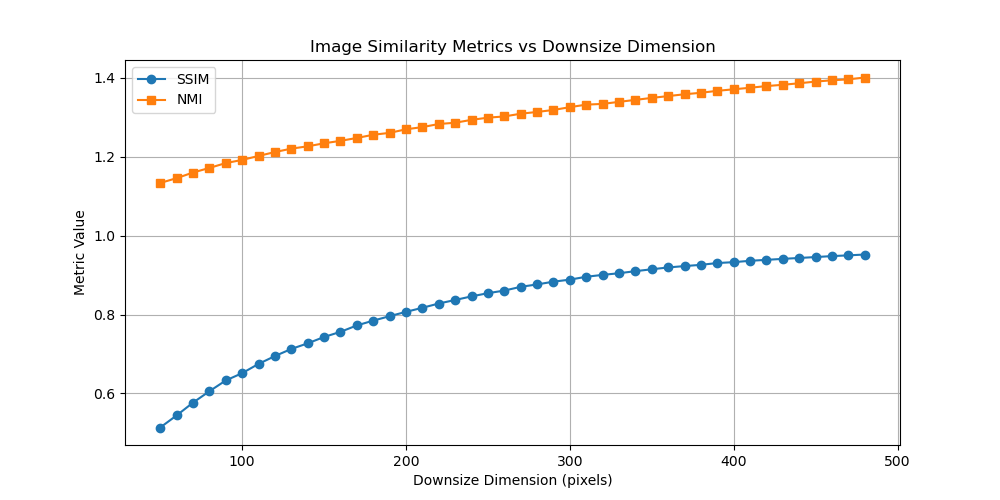
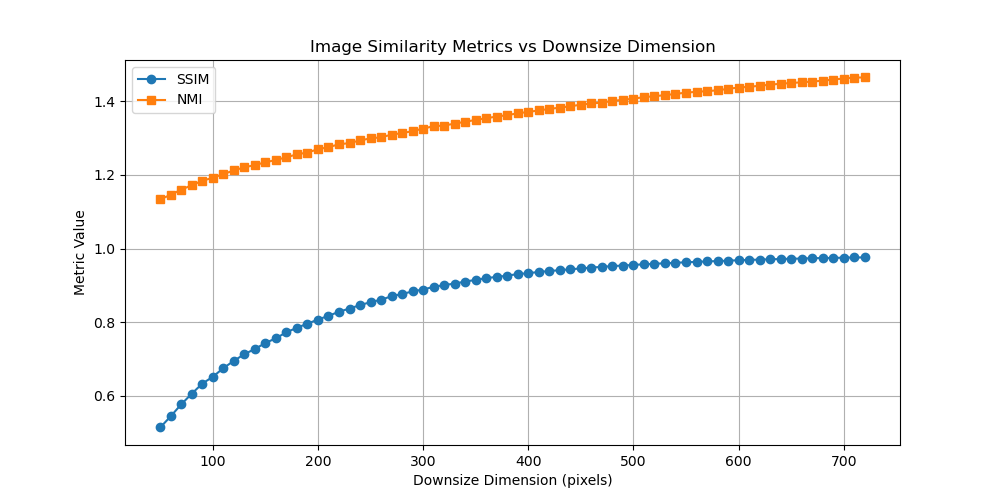
fixed downsizing range

diff --git a/downsize_loss.py b/downsize_loss.py
@@ -18,8 +18,8 @@ def size_reducer(img, biggest_length):
 
 def resized_imgs(img, smallest_length=50, increment=10):
     h, w = img.shape[:2]
-    min_dim = min(h, w)
-    sizes = list(range(smallest_length, min_dim + 1, increment))
+    max_dim = max(h, w)
+    sizes = list(range(smallest_length, max_dim + 1, increment))
     resized_list = [size_reducer(img, size) for size in sizes]
     reresized_list = [cv.resize(rimg, (w, h)) for rimg in resized_list]
     return reresized_list, sizes
